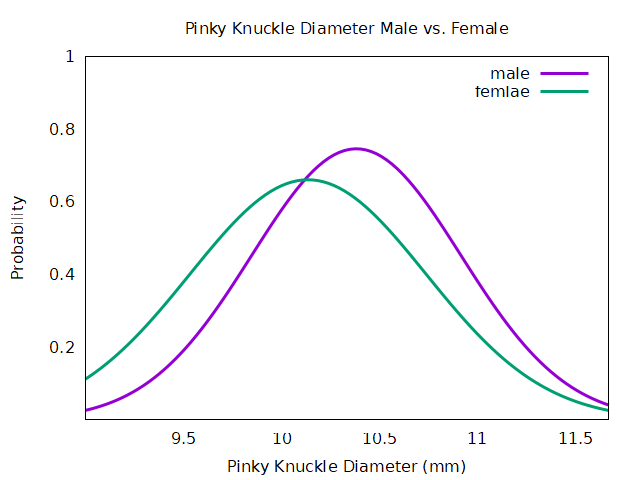
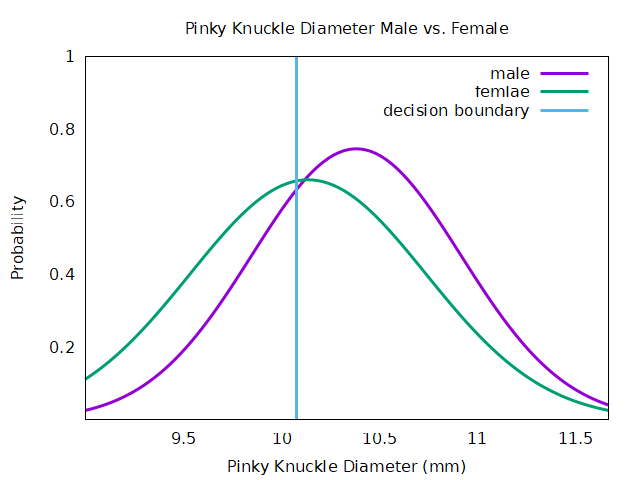
Plot decision boundary to stack graph and fix min_error calculation error

Changed region(s): [[0.4375, 0.125, 0.4688, 0.875], [0.5938, 0.2188, 0.9062, 0.25]]

diff --git a/src/hw2/lib/data_plot.c b/src/hw2/lib/data_plot.c
@@ -4,6 +4,7 @@
 #include "data_plot.h"
 #include "data_proc.h"
 #include "output_format.h"
+#include "decision_boundary.h"
 
 /*
 REF
@@ -115,6 +116,8 @@ void save_data_div5_cnt(dataset* pData, char* pFilename){
 
 void save_data_div5_norm(char* pFilename, float x_min, float x_max, float mu, float sigma){
     // https://gist.github.com/JavierJia/e10f7c7d8ce3c42a6e469316a5738f0f
+    output_format Format;
+    get_format(&Format);
     FILE* gnuplot = plot_save_open();
     fprintf(gnuplot, "set xrange [%g:%g]\n", x_min, x_max);
     fprintf(gnuplot, "invsqrt2pi = 0.398942280401433\n");
@@ -123,6 +126,22 @@ void save_data_div5_norm(char* pFilename, float x_min, float x_max, float mu, fl
     fprintf(gnuplot, "plot normal(x,%g,%g) with lines lw 2\n", mu, sigma);
     fprintf(gnuplot, "unset table\n");
     plot_save_close(gnuplot);
+    printf("%sSUCCESS%s: Data written to file %s.\n\r", Format.foreground.green, Format.style.reset, pFilename);
+    return;
+}
+
+void save_data_vertical_line(char* pFilename, float x, float y1, float y2){
+    output_format Format;
+    get_format(&Format);
+    FILE* gnuplot = plot_save_open();
+    fprintf(gnuplot, "set table '%s'\n", pFilename);
+    fprintf(gnuplot, "plot '-'\n");
+    fprintf(gnuplot, "%g %g\n", x, y1);
+    fprintf(gnuplot, "%g %g\n", x, y2);
+    fprintf(gnuplot, "e\n");
+    fprintf(gnuplot, "unset table\n");
+    plot_save_close(gnuplot);
+    printf("%sSUCCESS%s: Data written to file %s.\n\r", Format.foreground.green, Format.style.reset, pFilename);
     return;
 }
 
@@ -151,7 +170,7 @@ void plot_data_div5(dataset* pData, char* pFilename, char* pTMP1, char* pTMP2){
     return;
 }
 
-void plot_stacked_data_div5(dataset* pData1, dataset* pData2, char* pFilename, char* pTMP1, char* pTMP2){
+void plot_stacked_data_div5(dataset* pData1, dataset* pData2, intersection* pITS, char* pFilename, char* pTMP1, char* pTMP2, char* pTMP3){
     float x_min1 = pData1->split_points[0]-(pData1->split_step/2);
     float x_max1 = pData1->split_points[SPLIT_PARTS]+(pData1->split_step/2);
     float x_min2 = pData2->split_points[0]-(pData2->split_step/2);
@@ -163,13 +182,14 @@ void plot_stacked_data_div5(dataset* pData1, dataset* pData2, char* pFilename, c
     //
     save_data_div5_norm(pTMP1, x_min, x_max, pData1->mu, pData1->sigma);
     save_data_div5_norm(pTMP2, x_min, x_max, pData2->mu, pData2->sigma);
+    save_data_vertical_line(pTMP3, pITS->avg_x, y_min, y_max);
     FILE* gnuplot = plot_open(pFilename);
     fprintf(gnuplot, "set title 'Pinky Knuckle Diameter Male vs. Female'\n");
     fprintf(gnuplot, "set xrange [%g:%g]\n", x_min, x_max);
     fprintf(gnuplot, "set yrange [%g:%g]\n", y_min, y_max);
     fprintf(gnuplot, "set xlabel 'Pinky Knuckle Diameter (%s)'\n", UNIT);
     fprintf(gnuplot, "set ylabel 'Probability'\n");
-    fprintf(gnuplot, "plot '%s' title 'male' with lines lw 3, '%s' title 'femlae' with lines lw 3\n", pTMP1, pTMP2);
+    fprintf(gnuplot, "plot '%s' title 'male' with lines lw 3, '%s' title 'femlae' with lines lw 3, '%s' title 'decision boundary' with lines lw 3\n", pTMP1, pTMP2, pTMP3);
     plot_close(gnuplot);
     return;
 }

diff --git a/src/hw2/lib/decision_boundary.c b/src/hw2/lib/decision_boundary.c
@@ -52,8 +52,8 @@ void get_intersection(input_struct* pIS1, norm_dist* pND1, input_struct* pIS2, n
     // 3. calculate the intersection of the two normal distributions
     cal_intersection(pND1, pND2, pIS1->pY_arr, pIS2->pY_arr, pIntersection);
     // 4. calculate the portion integral of the two normal distributions
-    pIntersection->min_error += cal_portion_integral(pND1, pIS1->pY_arr, pIntersection->idx1, pND1->arr_length-1);
-    pIntersection->min_error += cal_portion_integral(pND2, pIS2->pY_arr, 0, pIntersection->idx2);
+    pIntersection->min_error += cal_portion_integral(pND1, pIS1->pY_arr, pIntersection->idx1, pND1->arr_length-1) / pND1->integral;
+    pIntersection->min_error += cal_portion_integral(pND2, pIS2->pY_arr, 0, pIntersection->idx2) / pND2->integral;
     // 5. calculate the average x value of the two normal distributions
     pIntersection->avg_x = (pIntersection->x1 + pIntersection->x2) / 2;
     return;

diff --git a/src/hw2/lib/data_plot.h b/src/hw2/lib/data_plot.h
@@ -1,6 +1,7 @@
 #include <stdio.h>
 #include <stdlib.h>
 #include "data_proc.h"
+#include "decision_boundary.h"
 
 #ifndef DATA_PLOT_H
 #define DATA_PLOT_H
@@ -19,10 +20,13 @@ void plot_save_close(FILE *gnuplot);
 // plot functions
 void test_plot(dataset* pData, char* pFilename);
 
-// plot div5
+// save data to file
 void save_data_div5_cnt(dataset *pData, char *pFilename);
 void save_data_div5_norm(char* pFilename, float x_min, float x_max, float mu, float sigma);
+void save_data_vertical_line(char* pFilename, float x, float y1, float y2);
+
+// plot div5
 void plot_data_div5(dataset* pData, char* pFilename, char* pTMP1, char* pTMP2);
-void plot_stacked_data_div5(dataset* pData1, dataset* pData2, char* pFilename, char* pTMP1, char* pTMP2);
+void plot_stacked_data_div5(dataset* pData1, dataset* pData2, intersection* pITS, char* pFilename, char* pTMP1, char* pTMP2, char* pTMP3);
 
 #endif // DATA_PLOT_H

diff --git a/src/hw2/main.c b/src/hw2/main.c
@@ -31,6 +31,7 @@
 #define DIV5_VS_IMG      "./output/div5_p4.png"
 #define TMP_DATA_FILE13  "./output/div5_p4_tmp_data13.dat"
 #define TMP_DATA_FILE14  "./output/div5_p4_tmp_data14.dat"
+#define TMP_DATA_FILE15  "./output/div5_p4_tmp_data15.dat"
 
 int main(void) {
     printf("Program started!\n");
@@ -95,7 +96,7 @@ int main(void) {
     // plot_data_div5(&male_data, DIV5_MALE_IMG, TMP_DATA_FILE1, TMP_DATA_FILE2);
     // plot_data_div5(&female_data, DIV5_FEMALE_IMG, TMP_DATA_FILE3, TMP_DATA_FILE4);
     // plot_data_div5(&all_data, DIV5_ALL_IMG, TMP_DATA_FILE5, TMP_DATA_FILE6);
-    // plot_stacked_data_div5(&male_data, &female_data, DIV5_VS_IMG, TMP_DATA_FILE13, TMP_DATA_FILE14);
+    plot_stacked_data_div5(&male_data, &female_data, &its, DIV5_VS_IMG, TMP_DATA_FILE13, TMP_DATA_FILE14, TMP_DATA_FILE15);
 
     // free memory
     free_norm_dist(&input_struct_data_male, "MALE");
